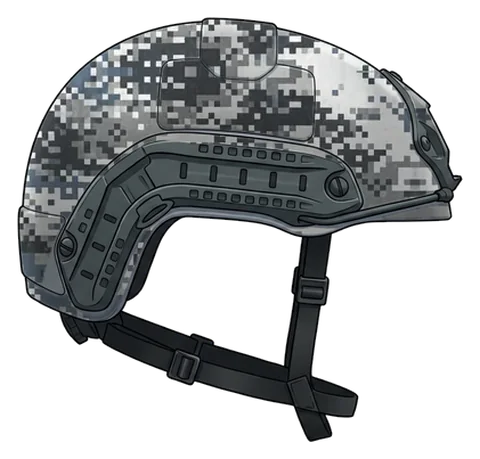
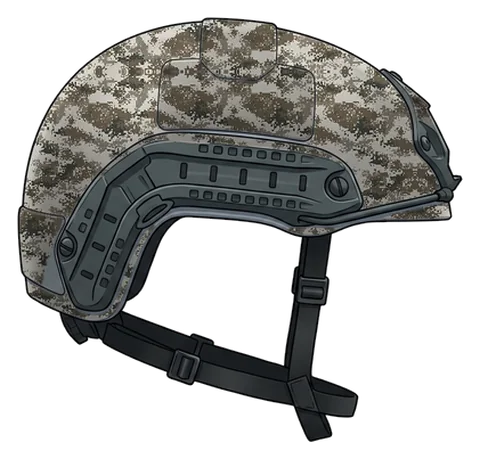
Camo: echte foto's in plaats van Gemini waar dat kan
- Alpenflage, MM-14, Type 07, NWU en grijs (Type 07 Urban) van Wikimedia Commons, met bron.
- PenCott en Kryptek voorlopig als uitsnede van een productfoto van Military1st (auteursrecht).
- Partizan en Dubok blijven nagetekend door Gemini.
- Helmen opnieuw gemaakt; BRONNEN.md bijgewerkt.

Changed region(s): [[0.0312, 0.0305, 0.9375, 0.7015], [0.25, 0.488, 0.3125, 0.6405], [0.5938, 0.488, 0.6875, 0.5185]]

diff --git a/veldrang/gegevens.js b/veldrang/gegevens.js
@@ -697,7 +697,8 @@ export const SPEELSTIJLEN = [
 // De factor geldt voor spelen, spelelementen en plekken: het gemiddelde van de delen die je koos.
 // Per optie: [id, naam, trede, beeld?]. Bij camo is het beeld een foto van het echte patroon van
 // Wikimedia Commons (camo/), met maker, licentie en bronpagina; bij wapens een plaatje (wapens/).
-// De bronnen staan ook in camo/BRONNEN.md. Zonder vrij beeld tekende Gemini het patroon na.
+// De bronnen staan ook in camo/BRONNEN.md. PenCott en Kryptek zijn voorlopig een uitsnede van een
+// productfoto (auteursrecht); Partizan en Dubok tekende Gemini na.
 export const LOADOUT = {
   treden: [
     { naam: 'Speedsoft', factor: 0.7 },
@@ -745,12 +746,12 @@ export const LOADOUT = {
         ['zwart', 'Zwart', 2, { kleuren: ['#1e1e1e'] }],
         ['effen', 'Effen groen, tan of coyote', 2, { kleuren: ['#6b6a45'] }],
         ['wolfgrey', 'Effen grijs (wolf grey)', 2, { kleuren: ['#6b6e70'] }],
-        ['grijs', 'Grijs digitaal (urban)', 4, { beeld: 'camo/grijs.webp', bron: { maker: 'Gemini, naar het echte patroon', licentie: 'nagetekend' } }],
-        ['nwu', 'Navy NWU Type I (blueberry)', 5, { beeld: 'camo/nwu.webp', bron: { maker: 'Gemini, naar het echte patroon', licentie: 'nagetekend' } }],
-        ['mm14', 'Oekraïens MM-14 (pixel)', 5, { beeld: 'camo/mm14.webp', bron: { maker: 'Gemini, naar het echte patroon', licentie: 'nagetekend' } }],
+        ['grijs', 'Grijs digitaal (urban)', 4, { beeld: 'camo/grijs.webp', bron: { maker: 'GTRus', licentie: 'CC BY-SA 4.0', link: 'https://commons.wikimedia.org/wiki/File:Type_07_urban.jpg' } }],
+        ['nwu', 'Navy NWU Type I (blueberry)', 5, { beeld: 'camo/nwu.webp', bron: { maker: 'U.S. Navy', licentie: 'publiek domein', link: 'https://commons.wikimedia.org/wiki/File:NWU_Type_I_camouflage_pattern_swatch_%28cropped%29.jpg' } }],
+        ['mm14', 'Oekraïens MM-14 (pixel)', 5, { beeld: 'camo/mm14.webp', bron: { maker: 'Lucas Cavalcante Mesquita', licentie: 'CC BY-SA 4.0', link: 'https://commons.wikimedia.org/wiki/File:MM14.jpg' } }],
         ['dubok', 'Oekraïens Dubok', 5, { beeld: 'camo/dubok.webp', bron: { maker: 'Gemini, naar het echte patroon', licentie: 'nagetekend' } }],
-        ['type07', 'Chinees Type 07 (woodland)', 5, { beeld: 'camo/type07.webp', bron: { maker: 'Gemini, naar het echte patroon', licentie: 'nagetekend' } }],
-        ['alpenflage', 'Zwitsers Alpenflage (pizza camo)', 6, { beeld: 'camo/alpenflage.webp', bron: { maker: 'Gemini, naar het echte patroon', licentie: 'nagetekend' } }],
+        ['type07', 'Chinees Type 07 (woodland)', 5, { beeld: 'camo/type07.webp', bron: { maker: 'GTRus', licentie: 'CC BY-SA 4.0', link: 'https://commons.wikimedia.org/wiki/File:Type_07_universal.jpg' } }],
+        ['alpenflage', 'Zwitsers Alpenflage (pizza camo)', 6, { beeld: 'camo/alpenflage.webp', bron: { maker: 'Bouterolle', licentie: 'CC BY-SA 3.0', link: 'https://commons.wikimedia.org/wiki/File:Alpenflage_%28cropped%29.JPG' } }],
         ['ucp', 'UCP (Amerikaans digitaal grijs)', 2, { beeld: 'camo/ucp.webp', bron: { maker: 'Doubleailes', licentie: 'publiek domein', link: 'https://commons.wikimedia.org/wiki/File:Universal_Camouflage_Pattern_%28UCP%29.jpg' } }],
         ['multicam', 'Multicam', 3, { beeld: 'camo/multicam.webp', bron: { maker: 'Chikumaya', licentie: 'publiek domein', link: 'https://commons.wikimedia.org/wiki/File:Multicam_pattern_%28cropped%29.jpg' } }],
         ['woodland', 'Woodland (M81)', 3, { beeld: 'camo/woodland.webp', bron: { maker: 'U.S. Army', licentie: 'publiek domein', link: 'https://commons.wikimedia.org/wiki/File:%22M81%22_U.S._woodland_camouflage_pattern_swatch.png' } }],
@@ -762,8 +763,8 @@ export const LOADOUT = {
         ['mtp', 'MTP (Brits)', 4, { beeld: 'camo/mtp.webp', bron: { maker: 'Amanda Reynolds, Ministry of Defence photographer', licentie: 'OGL v1.0', link: 'https://commons.wikimedia.org/wiki/File:British_Armed_Forces_Multi_Terrain_Pattern_camouflage.jpg' } }],
         ['mcvariant', 'Multicam Tropic, Arid of Black', 4, { beeld: 'camo/mcvariant.webp', bron: { maker: 'onbekende maker', licentie: 'publiek domein', link: 'https://commons.wikimedia.org/wiki/File:TROPIC_MULTICAM_%28cropped%29.jpg' } }],
         ['atacs', 'A-TACS', 4, { beeld: 'camo/atacs.webp', bron: { maker: 'GTRus', licentie: 'CC BY-SA 4.0', link: 'https://commons.wikimedia.org/wiki/File:A-TACS_AU.jpg' } }],
-        ['pencott', 'PenCott', 4, { beeld: 'camo/pencott.webp', bron: { maker: 'Gemini, naar het echte patroon', licentie: 'nagetekend' } }],
-        ['kryptek', 'Kryptek', 5, { beeld: 'camo/kryptek.webp', bron: { maker: 'Gemini, naar het echte patroon', licentie: 'nagetekend' } }],
+        ['pencott', 'PenCott', 4, { beeld: 'camo/pencott.webp', bron: { maker: 'Military1st', licentie: 'productfoto, auteursrecht', link: 'https://www.military1st.nl/catalogsearch/result/?q=pencott+greenzone' } }],
+        ['kryptek', 'Kryptek', 5, { beeld: 'camo/kryptek.webp', bron: { maker: 'Military1st', licentie: 'productfoto, auteursrecht', link: 'https://www.military1st.nl/catalogsearch/result/?q=kryptek+highlander' } }],
         ['vz95', 'Tsjechisch woodland (vz. 95)', 5, { beeld: 'camo/vz95.webp', bron: { maker: 'Chekotay', licentie: 'CC BY-SA 4.0', link: 'https://commons.wikimedia.org/wiki/File:Maskovac%C3%AD_potisk_stejnokroje_95.jpg' } }],
         ['m90', 'Zweeds splinter (M90)', 5, { beeld: 'camo/m90.webp', bron: { maker: 'LEJK', licentie: 'CC BY-SA 4.0', link: 'https://commons.wikimedia.org/wiki/File:M90_Seamless_Camo.png' } }],
         ['splinter', 'Duits Splittertarn', 5, { beeld: 'camo/splinter.webp', bron: { maker: 'Mediatus', licentie: 'CC BY-SA 3.0', link: 'https://commons.wikimedia.org/wiki/File:Buntfarbenmuster_31_%28Splittertarn%29_%28cropped%29.jpg' } }],

diff --git a/veldrang/versies.js b/veldrang/versies.js
@@ -9,7 +9,7 @@ export const VERSIES = [
     datum: '2026-11-08',
     wijzigingen: [
       'De camo-helm is opnieuw getekend: een echte helm met rails en banden, met het patroon en de schaduw erop.',
-      'Nieuwe camopatronen: Zwitsers Alpenflage (pizza camo), Oekraïens MM-14 en Dubok, Chinees Type 07, Navy NWU (blueberry), grijs digitaal en effen grijs. PenCott, Kryptek en Partizan hebben nu ook een plaatje.',
+      'Nieuwe camopatronen: Zwitsers Alpenflage (pizza camo), Oekraïens MM-14 en Dubok, Chinees Type 07, Navy NWU (blueberry), grijs digitaal en effen grijs. PenCott, Kryptek en Partizan hebben nu ook een plaatje, de meeste van een echte foto.',
       'Tien nieuwe patches en tien nieuwe prestaties, zoals Rookgordijn, De laatste man en Winterhard.',
       'Het handboek heeft nu iconen, een overzicht van alle rangen met hun embleem, en uitleg over je kit, je speelstijl en teams.',
       'Bij het kiezen zie je alleen nog wat iets oplevert, niet wat het kost.',

diff --git a/veldrang/camo/BRONNEN.md b/veldrang/camo/BRONNEN.md
@@ -39,11 +39,28 @@ Per patroon: het bestand, de maker en de licentie.
 
 vz95.webp is alleen de woodland-helft van het bestand.
 
+## Later toegevoegd, van Wikimedia Commons
+
+| Bestand | Bron | Maker | Licentie |
+| --- | --- | --- | --- |
+| `alpenflage.webp` | [Alpenflage_%28cropped%29.JPG](https://commons.wikimedia.org/wiki/File:Alpenflage_%28cropped%29.JPG) | Bouterolle | CC BY-SA 3.0 |
+| `mm14.webp` | [MM14.jpg](https://commons.wikimedia.org/wiki/File:MM14.jpg) | Lucas Cavalcante Mesquita | CC BY-SA 4.0 |
+| `type07.webp` | [Type_07_universal.jpg](https://commons.wikimedia.org/wiki/File:Type_07_universal.jpg) | GTRus | CC BY-SA 4.0 |
+| `nwu.webp` | [NWU_Type_I_camouflage_pattern_swatch_%28cropped%29.jpg](https://commons.wikimedia.org/wiki/File:NWU_Type_I_camouflage_pattern_swatch_%28cropped%29.jpg) | U.S. Navy | publiek domein |
+| `grijs.webp` | [Type_07_urban.jpg](https://commons.wikimedia.org/wiki/File:Type_07_urban.jpg) | GTRus | CC BY-SA 4.0 |
+
+`alpenflage.webp` is een uitsnede zonder het vergrootglas; `grijs.webp` is Type 07 Urban.
+
+## Voorlopig met auteursrecht
+
+`pencott.webp` (PenCott GreenZone) en `kryptek.webp` (Kryptek Highlander) zijn uitsneden van
+productfoto's van Military1st. Daar rust auteursrecht op. Ze staan er voorlopig; regel toestemming of
+vervang ze door een vrij beeld.
+
 ## Nagetekend met Gemini
 
-Van deze patronen is geen vrij beeld te vinden. Het beeldmodel van Gemini tekende ze na, naar het
-echte patroon: `pencott.webp`, `kryptek.webp`, `partizan.webp`, `alpenflage.webp` (pizza camo),
-`mm14.webp`, `dubok.webp`, `type07.webp`, `nwu.webp` en `grijs.webp`.
+Van `partizan.webp` en `dubok.webp` is nog geen beeld gevonden. Het beeldmodel van Gemini tekende
+ze na, naar het echte patroon.
 
 ## De helmen
 

diff --git a/README.md b/README.md
@@ -498,7 +498,8 @@ Animaties (de glans op de XP-balk, het niveauvenster) staan uit bij
   licentie (publiek domein, CC BY-SA, CC0 of de Britse Open Government Licence).
   Maker, licentie en bronpagina staan bij elk staal in de app en in
   `veldrang/camo/BRONNEN.md`. Zet je er een bij, vermeld dan ook de bron.
-  Patronen zonder vrij beeld tekende Gemini na; de helmen in
+  PenCott en Kryptek zijn voorlopig uitsneden van productfoto's met
+  auteursrecht; Partizan en Dubok tekende Gemini na. De helmen in
   `veldrang/camo/helm/` zijn elk patroon op een helm van Gemini.
 - Veldrang, plaatjes van wapens, optics en toebehoren (`veldrang/wapens/`,
   `veldrang/uitrusting/`): gemaakt met het beeldmodel van Gemini, in één
